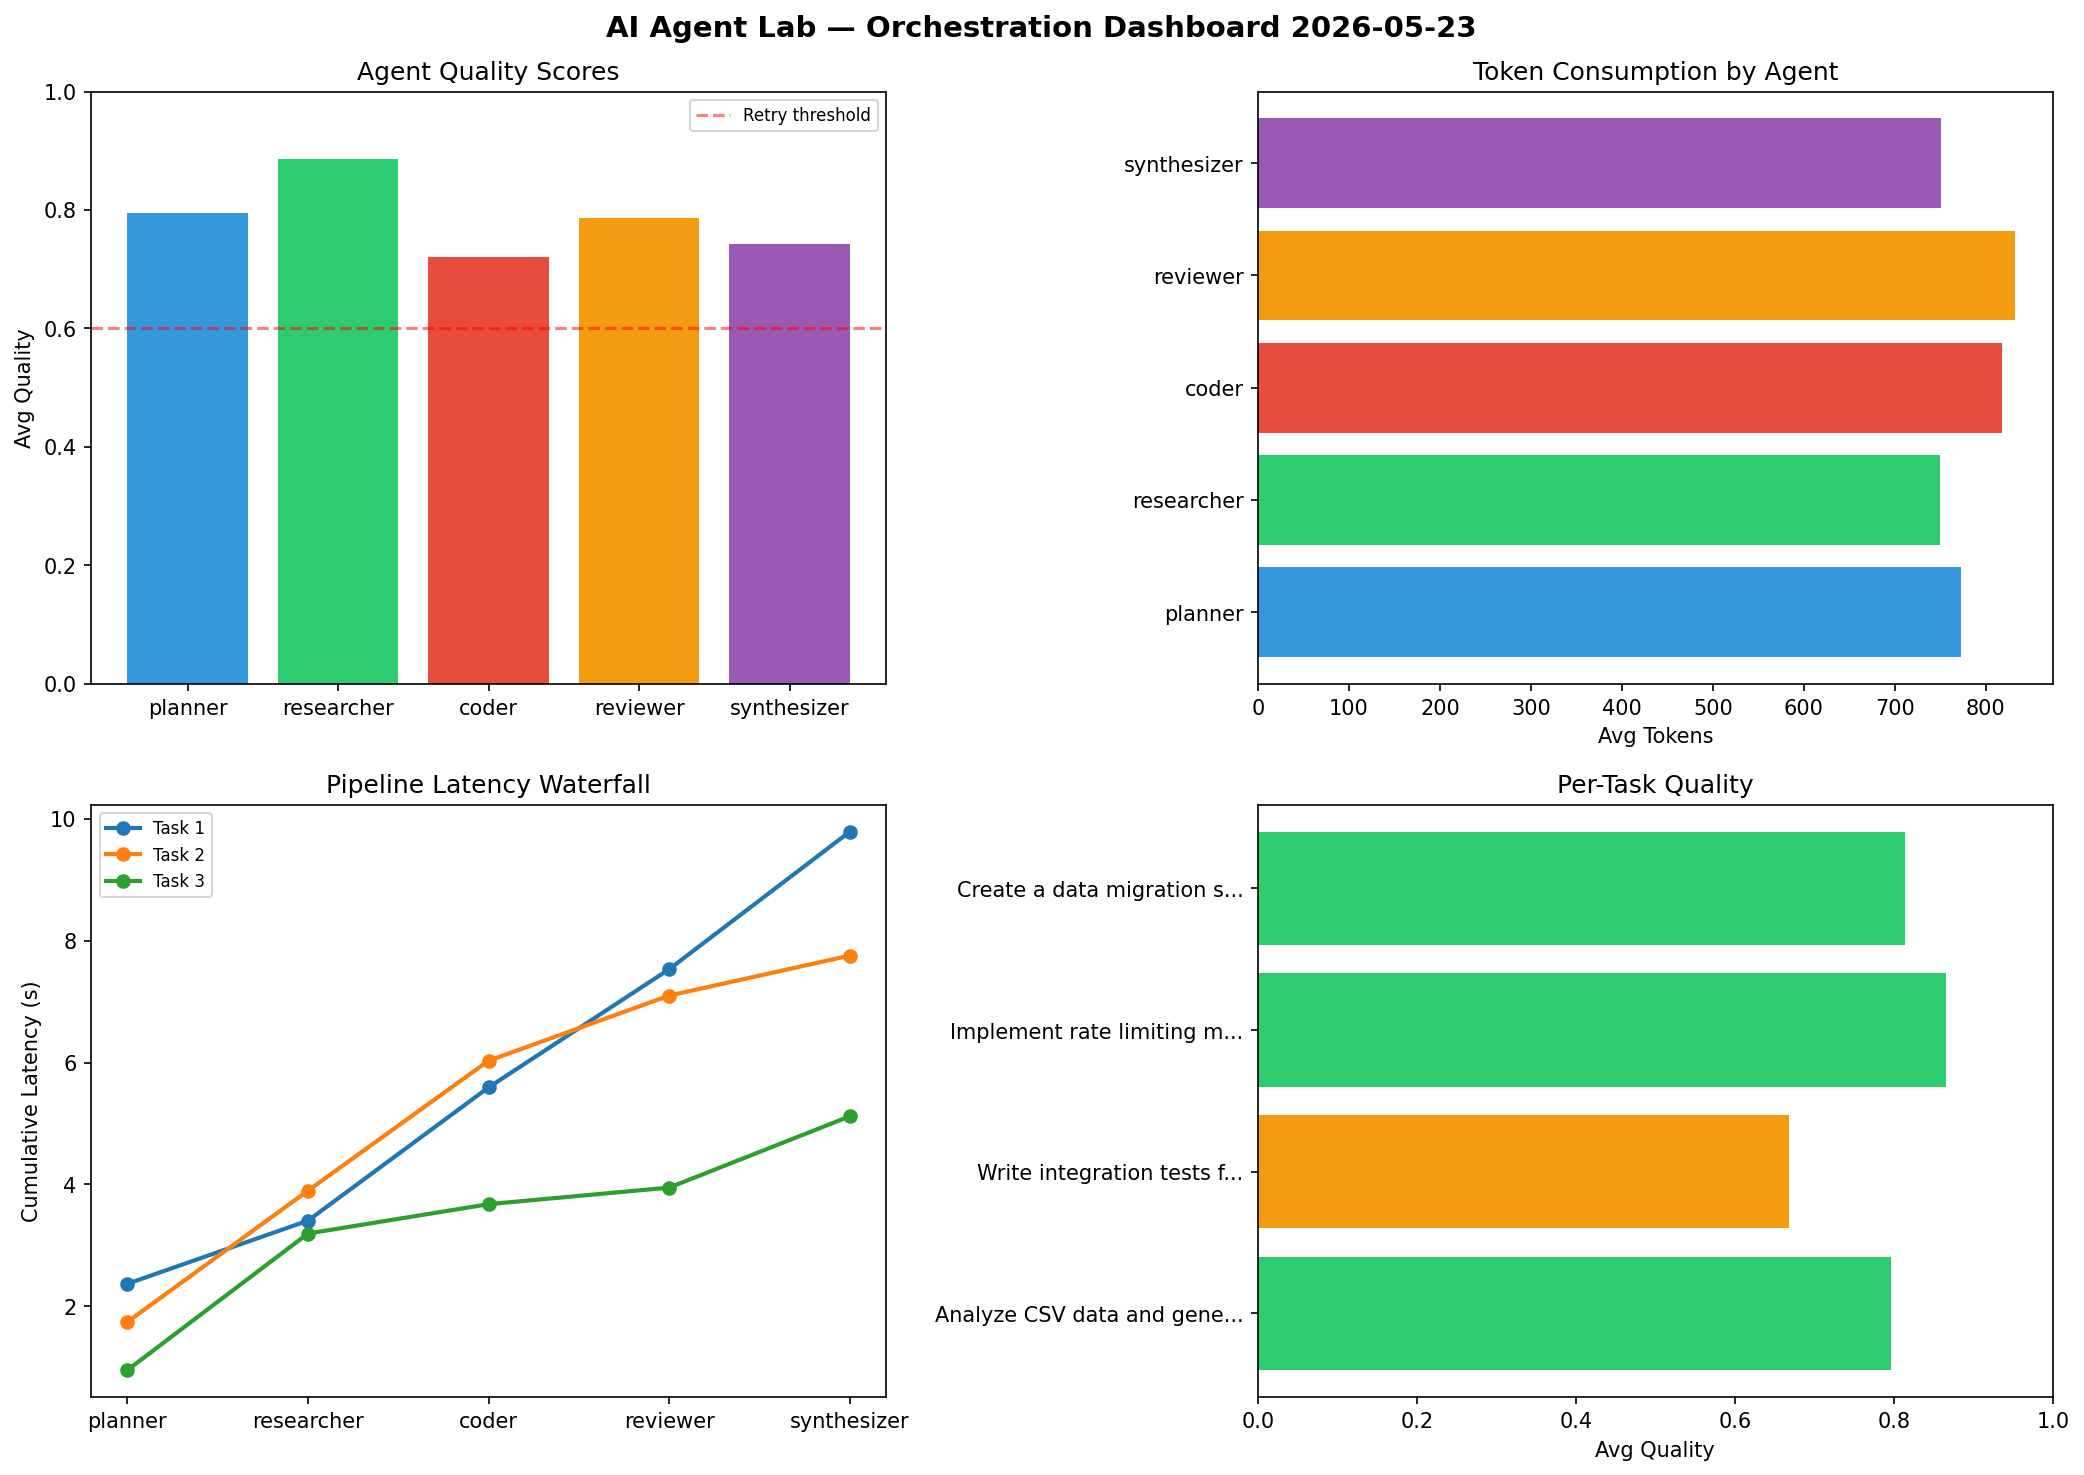
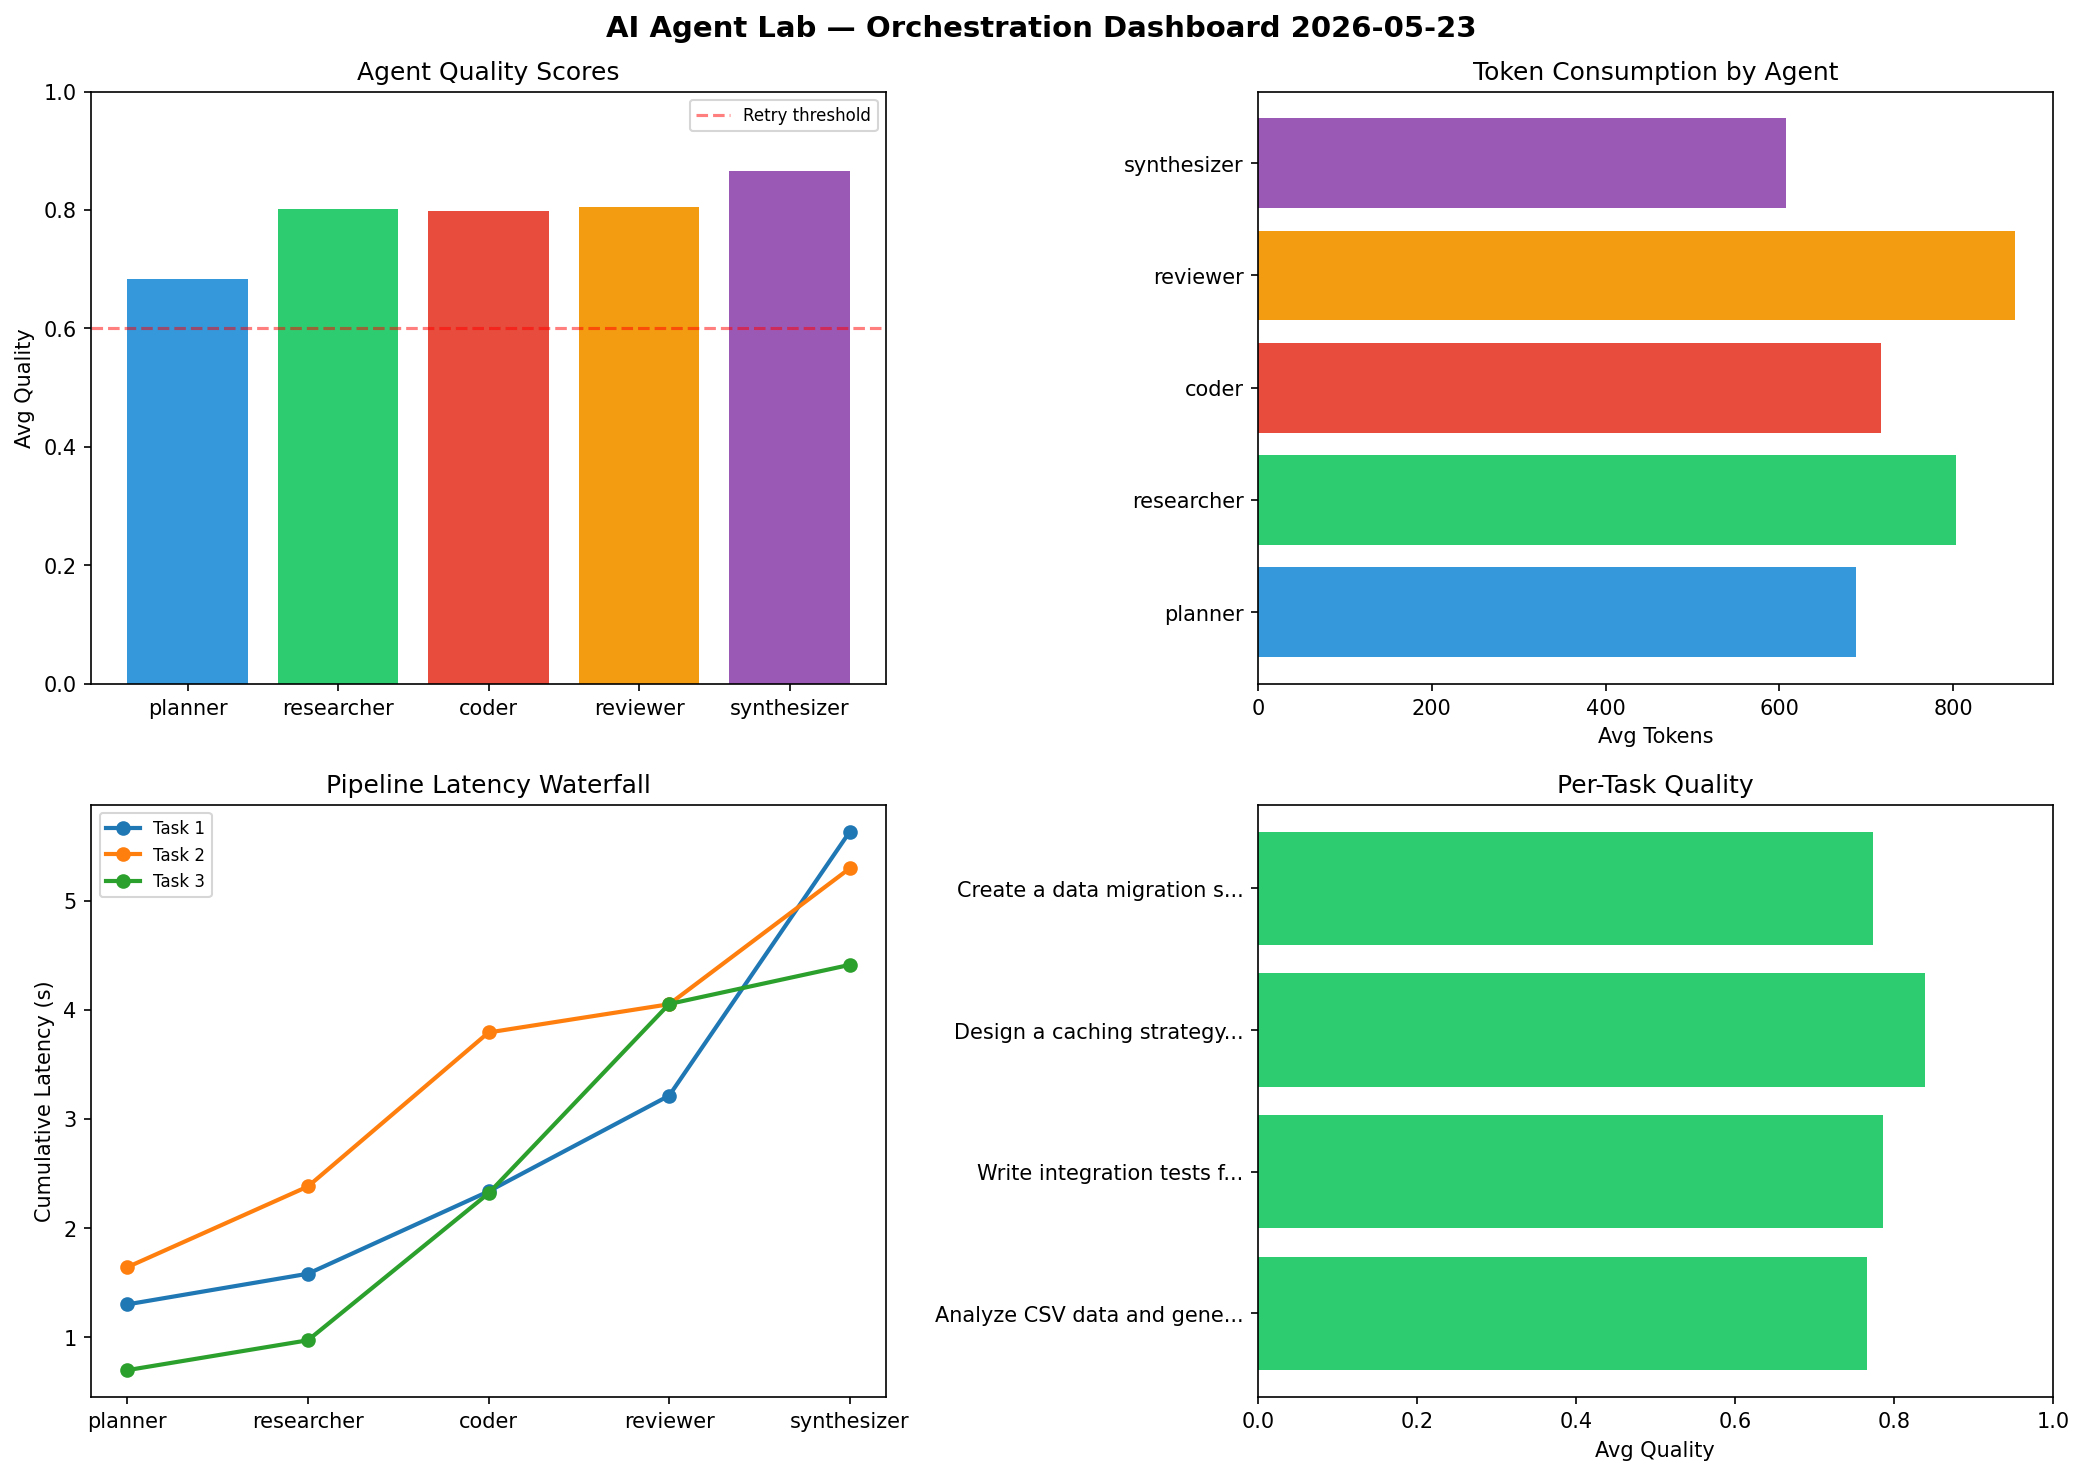
ai-agent-lab: orchestration run 2026-05-23T21:10

diff --git a/logs/2026-05-23.md b/logs/2026-05-23.md
@@ -1,6 +1,6 @@
 # AI Agent Lab — Orchestration Report 2026-05-23
 
-**Run ID:** `7083ac9cb9` | **Tasks:** 4 | **Avg Quality:** 0.786
+**Run ID:** `3ba820ff08` | **Tasks:** 4 | **Avg Quality:** 0.791
 
 ![Dashboard](2026-05-23_dashboard.png)
 
@@ -8,52 +8,52 @@
 
 | Metric | Value |
 |--------|-------|
-| avg_latency | 7.031 |
-| total_tokens | 15690 |
-| avg_quality | 0.786 |
+| avg_latency | 5.043 |
+| total_tokens | 14746 |
+| avg_quality | 0.791 |
 
 ## Delta vs Yesterday
 
 | Metric | Today | Yesterday | Change |
 |--------|-------|-----------|--------|
-| avg_latency | 7.031 | 6.557 | 📈 7.2% |
-| total_tokens | 15690 | 14384 | 📈 9.1% |
-| avg_quality | 0.786 | 0.754 | 📈 4.2% |
+| avg_latency | 5.043 | 6.557 | 📉 -23.1% |
+| total_tokens | 14746 | 14384 | 📈 2.5% |
+| avg_quality | 0.791 | 0.754 | 📈 4.9% |
 
 ## Pipeline Results
 
 ### Analyze CSV data and generate statistical summary
 | Agent | Quality | Latency | Tokens | Status |
 |-------|---------|---------|--------|--------|
-| planner | 0.933 | 2.37s | 686 | success |
-| researcher | 0.938 | 1.036s | 1131 | success |
-| coder | 0.662 | 2.187s | 735 | success |
-| reviewer | 0.885 | 1.94s | 842 | success |
-| synthesizer | 0.569 | 2.257s | 1176 | needs_retry |
+| planner | 0.857 | 1.3s | 526 | success |
+| researcher | 0.729 | 0.281s | 1276 | success |
+| coder | 0.922 | 0.755s | 614 | success |
+| reviewer | 0.623 | 0.878s | 420 | success |
+| synthesizer | 0.697 | 2.42s | 806 | success |
 
 ### Write integration tests for payment processing module
 | Agent | Quality | Latency | Tokens | Status |
 |-------|---------|---------|--------|--------|
-| planner | 0.587 | 1.744s | 919 | needs_retry |
-| researcher | 0.845 | 2.154s | 940 | success |
-| coder | 0.526 | 2.133s | 645 | needs_retry |
-| reviewer | 0.753 | 1.069s | 1066 | success |
-| synthesizer | 0.628 | 0.656s | 663 | success |
+| planner | 0.632 | 1.641s | 729 | success |
+| researcher | 0.754 | 0.74s | 641 | success |
+| coder | 0.748 | 1.412s | 859 | success |
+| reviewer | 0.828 | 0.259s | 1106 | success |
+| synthesizer | 0.966 | 1.246s | 784 | success |
 
-### Implement rate limiting middleware
+### Design a caching strategy for high-traffic endpoints
 | Agent | Quality | Latency | Tokens | Status |
 |-------|---------|---------|--------|--------|
-| planner | 0.909 | 0.953s | 643 | success |
-| researcher | 0.969 | 2.242s | 168 | success |
-| coder | 0.787 | 0.482s | 891 | success |
-| reviewer | 0.85 | 0.272s | 1114 | success |
-| synthesizer | 0.816 | 1.17s | 580 | success |
+| planner | 0.747 | 0.697s | 716 | success |
+| researcher | 0.756 | 0.274s | 788 | success |
+| coder | 0.88 | 1.347s | 881 | success |
+| reviewer | 0.875 | 1.736s | 830 | success |
+| synthesizer | 0.935 | 0.359s | 380 | success |
 
 ### Create a data migration script for schema v2
 | Agent | Quality | Latency | Tokens | Status |
 |-------|---------|---------|--------|--------|
-| planner | 0.748 | 0.413s | 841 | success |
-| researcher | 0.795 | 0.412s | 759 | success |
-| coder | 0.905 | 1.81s | 999 | success |
-| reviewer | 0.661 | 2.331s | 306 | success |
-| synthesizer | 0.96 | 0.493s | 586 | success |
+| planner | 0.5 | 1.346s | 780 | needs_retry |
+| researcher | 0.966 | 0.789s | 510 | success |
+| coder | 0.643 | 1.386s | 512 | success |
+| reviewer | 0.892 | 0.26s | 1128 | success |
+| synthesizer | 0.868 | 1.047s | 460 | success |
